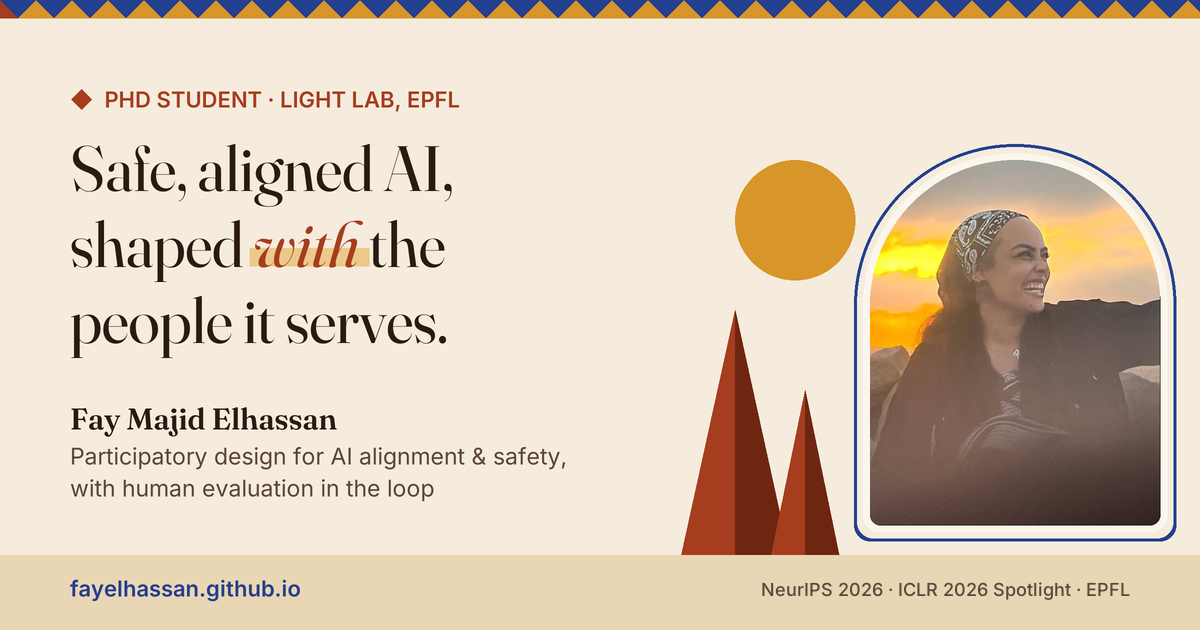
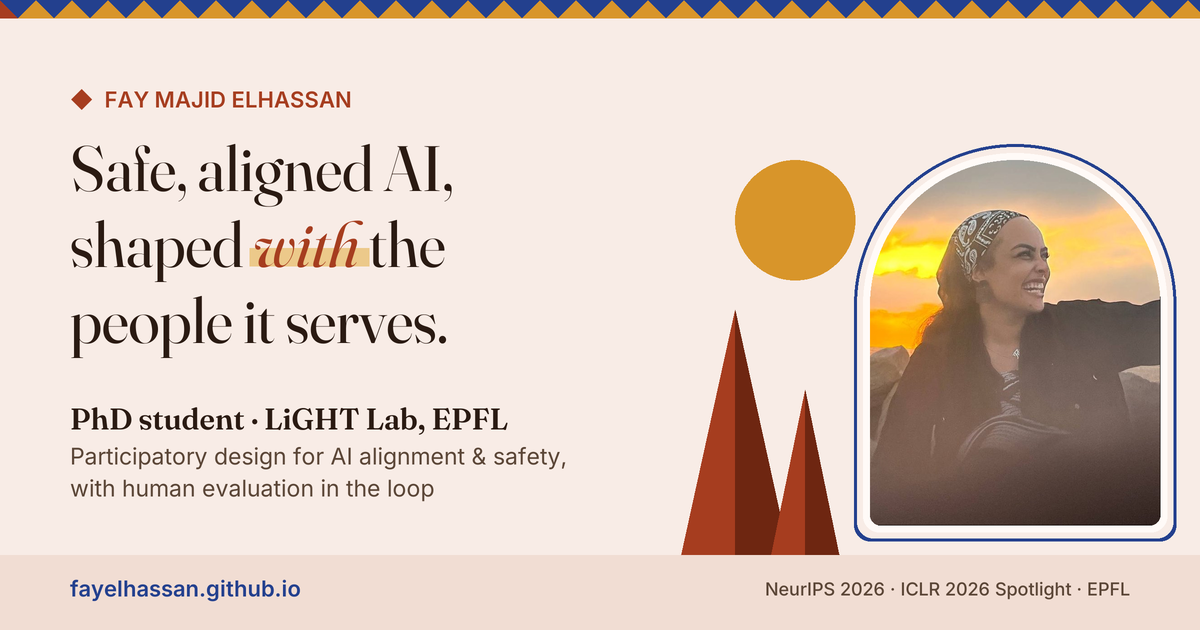
Henna blush background; share image to match

Changed region(s): [[0.0, 0.8746, 1.0, 1.0], [0.0617, 0.6333, 0.4317, 0.6937], [0.0925, 0.1206, 0.37, 0.181]]

diff --git a/assets/site.css b/assets/site.css
@@ -3,16 +3,16 @@
    saffron and the Nile; Nubian house-painting geometry; Meroë pyramids;
    the confluence of the Blue and White Nile at Khartoum. */
 :root {
-  --bg: #f5ecdd;          /* desert sand */
-  --bg-soft: #ecdfc9;
-  --card: #fbf6ec;
+  --bg: #f8ece6;          /* henna blush */
+  --bg-soft: #f1ddd3;
+  --card: #fffaf7;
   --ink: #2a1a12;         /* date-palm brown */
   --ink-2: #5b4637;
   --ink-3: #735d4d;
-  --line: #e0cdb2;
+  --line: #ebd3c7;
   --accent: #a63d1f;      /* henna / Nubian terracotta */
   --accent-ink: #fff8ef;
-  --accent-soft: #f3d9c6;
+  --accent-soft: #f6d5c6;
   --indigo: #23408e;      /* Nubian door indigo */
   --indigo-soft: #dfe4f3;
   --saffron: #d8952a;     /* saffron & sunset */
